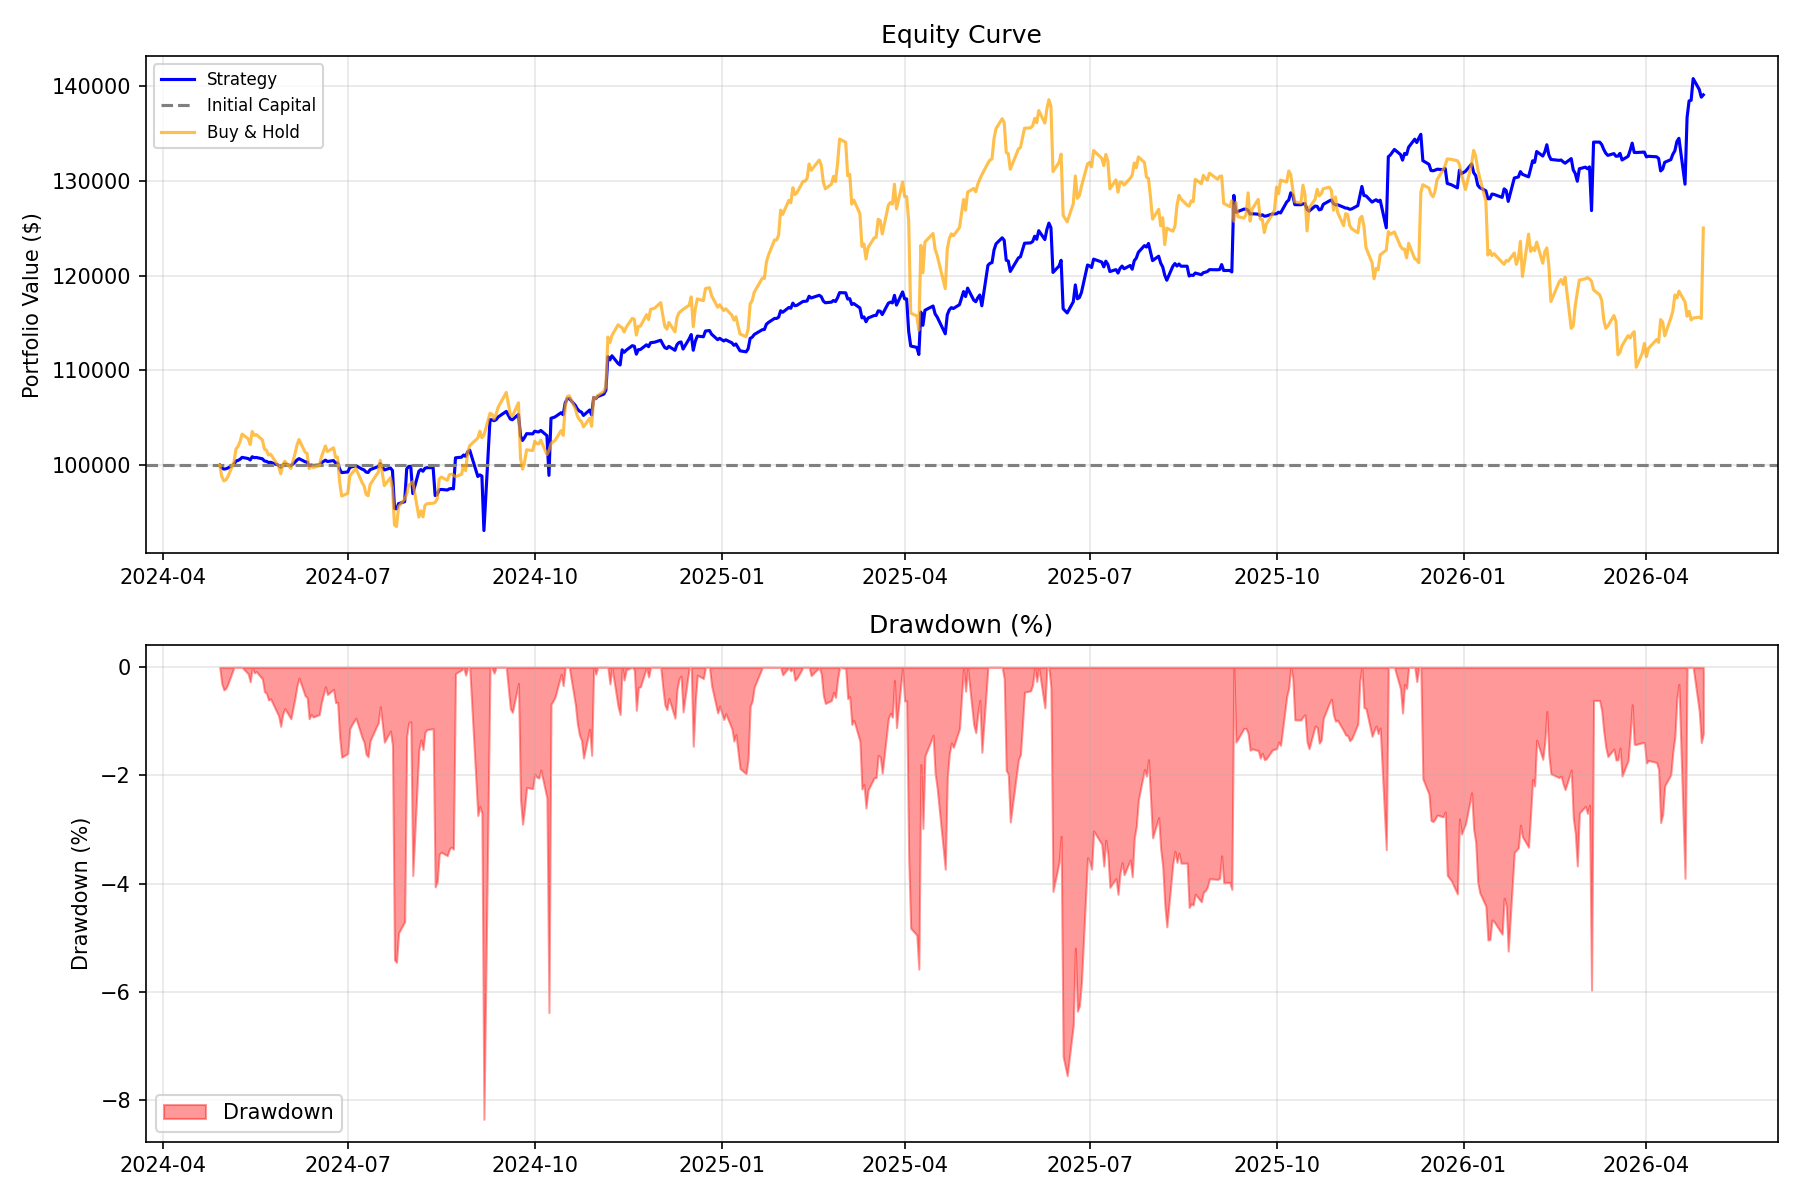
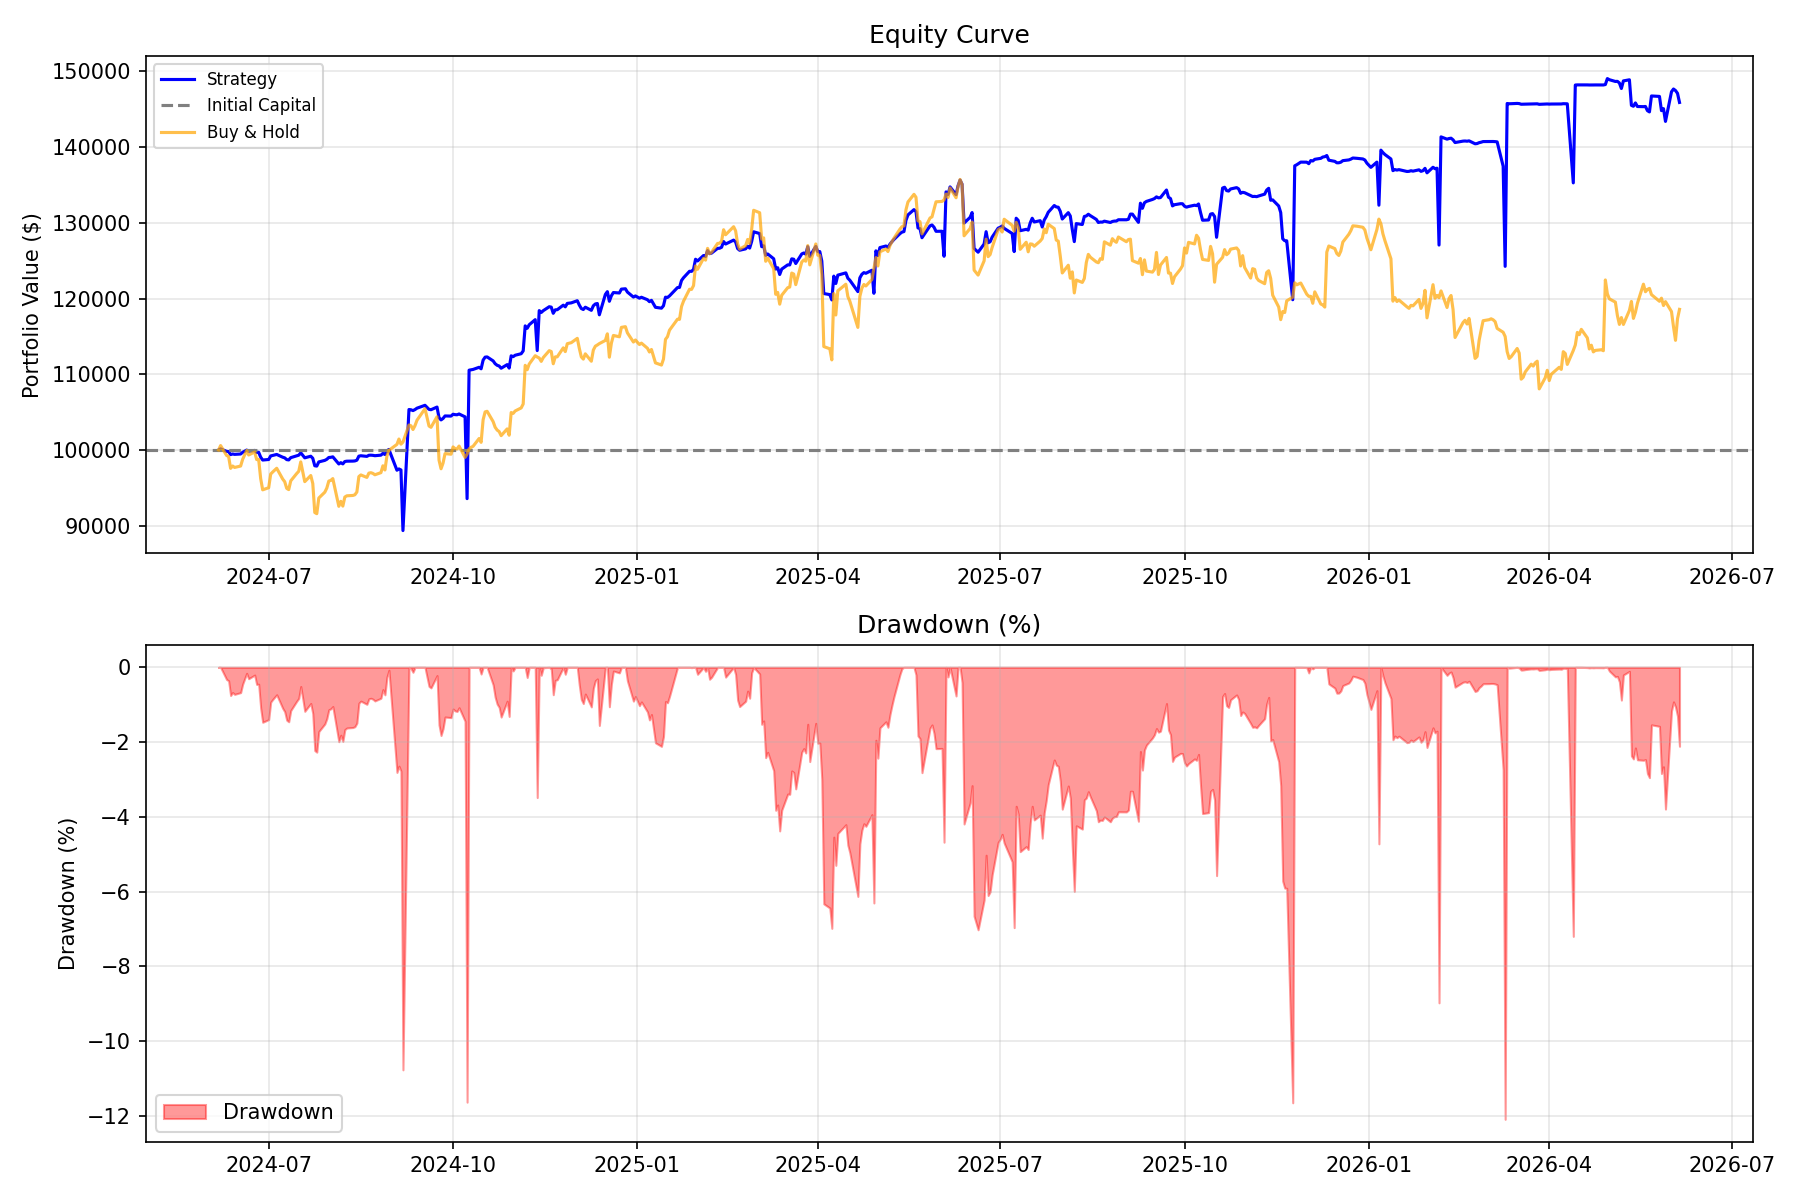
Quantitative Upgrade: OU Stochastic Exits & ML Determinism
- Implemented Ornstein-Uhlenbeck (OU) process for dynamic half-life filtering.

- Upgraded Mean Reversion exits to dynamically target the OU theoretical equilibrium (\mu).

- Enforced strict determinism in LightGBM hyperparameter grid search (random_state=42, n_jobs=1) to eliminate OpenMP thread-racing.

- Unpinned BACKTEST_END_DATE to enable continuous live forward testing.

diff --git a/backtest/engine.py b/backtest/engine.py
@@ -200,6 +200,7 @@ class BacktestEngine:
             signal = int(row.get("signal", 0))
             strength = float(row.get("signal_strength", 0.5))
             atr = float(row.get("atr", 0.0)) if "atr" in row.index else 0.0
+            ou_mu = float(row.get("ou_mu", 0.0)) if "ou_mu" in row.index else 0.0
 
             # Current benchmark price for overlay
             bm_price = 0.0
@@ -1487,9 +1488,18 @@ class BacktestEngine:
                 row = signals_by_symbol[sym].loc[date]
                 price = float(row["Close"])
                 signal = int(row.get("signal", 0))
+                ou_mu = float(row.get("ou_mu", 0.0)) if "ou_mu" in row.index else 0.0
 
                 exit_by_stop = False
                 exit_by_tp = False
+                exit_by_ou = False
+                
+                use_ou_exits = getattr(settings, "USE_OU_DYNAMIC_EXITS", True)
+                if use_ou_exits and ou_mu > 0:
+                    if pos["shares"] > 0 and price >= ou_mu:
+                        exit_by_ou = True
+                    elif pos["shares"] < 0 and price <= ou_mu:
+                        exit_by_ou = True
 
                 if use_atr_stops and pos["stop"] > 0:
                     if pos["shares"] > 0 and price <= pos["stop"]:
@@ -1505,7 +1515,7 @@ class BacktestEngine:
 
                 exit_by_signal = (pos["shares"] > 0 and signal == -1) or (pos["shares"] < 0 and signal == 1)
 
-                if exit_by_stop or exit_by_tp or exit_by_signal:
+                if exit_by_stop or exit_by_tp or exit_by_ou or exit_by_signal:
                     exit_exec = price * (1 - self.SLIPPAGE) if pos["shares"] > 0 else price * (1 + self.SLIPPAGE)
                     pnl = (exit_exec - pos["entry_price"]) * pos["shares"]
                     proceeds = exit_exec * abs(pos["shares"])
@@ -1524,7 +1534,7 @@ class BacktestEngine:
                         "pnl": pnl,
                         "return_pct": (exit_exec / pos["entry_price"] - 1) * (1 if pos["shares"] > 0 else -1),
                         "holding_days": (date - pos["entry_date"]).days if hasattr(date - pos["entry_date"], "days") else 0,
-                        "exit_reason": "stop" if exit_by_stop else ("tp" if exit_by_tp else "signal"),
+                        "exit_reason": "stop" if exit_by_stop else ("ou_target" if exit_by_ou else ("tp" if exit_by_tp else "signal")),
                     }
                     trade_record.update(pos.get("indicators", {}))
                     self._trades.append(trade_record)

diff --git a/features/indicators.py b/features/indicators.py
@@ -152,6 +152,44 @@ class IndicatorEngine:
         shifted = series.shift(period)
         return (series - shifted) / shifted.replace(0, np.nan) * 100
 
+    def compute_ou_parameters(self, series: pd.Series, window: int = 60) -> pd.DataFrame:
+        """Compute Ornstein-Uhlenbeck process parameters via rolling linear regression.
+        
+        dx_t = theta * (mu - x_t) * dt + sigma * dW_t
+        Discretized: x_t - x_{t-1} = a + b * x_{t-1} + e_t
+        Where b = -theta * dt, a = mu * theta * dt
+        
+        Args:
+            series: Price series
+            window: Lookback window for rolling regression
+            
+        Returns:
+            DataFrame with ou_theta, ou_mu, and ou_half_life
+        """
+        diff = series.diff()
+        lag = series.shift(1)
+        
+        # Rolling covariance and variance to find regression slope (beta) and intercept (alpha)
+        cov = diff.rolling(window=window).cov(lag)
+        var = lag.rolling(window=window).var()
+        
+        beta = cov / var.replace(0, np.nan)
+        alpha = diff.rolling(window=window).mean() - beta * lag.rolling(window=window).mean()
+        
+        # Calculate OU parameters (assuming dt = 1 day)
+        theta = -beta
+        mu = alpha / theta.replace(0, np.nan)
+        
+        # Calculate half-life. If theta <= 0, process is not mean-reverting.
+        half_life = np.log(2) / theta
+        half_life = half_life.where(theta > 0, np.nan) # np.nan implies infinite half-life (random walk)
+        
+        return pd.DataFrame({
+            "ou_theta": theta,
+            "ou_mu": mu,
+            "ou_half_life": half_life
+        }, index=series.index)
+
     def compute_rolling_correlation(self, series_a: pd.Series, series_b: pd.Series, window: int = 60) -> pd.Series:
         """Compute rolling correlation between two price series.
 
@@ -229,6 +267,12 @@ class IndicatorEngine:
 
         # Volatility percentile (for regime context)
         result["vol_percentile"] = vol_20.rolling(window=252, min_periods=20).rank(pct=True)
+        
+        # Ornstein-Uhlenbeck Parameters
+        ou_df = self.compute_ou_parameters(close, window=60)
+        result["ou_theta"] = ou_df["ou_theta"]
+        result["ou_mu"] = ou_df["ou_mu"]
+        result["ou_half_life"] = ou_df["ou_half_life"]
 
         # VIX integration (macro filter)
         if vix_data is not None:

diff --git a/strategy/ml_filter.py b/strategy/ml_filter.py
@@ -167,6 +167,8 @@ class MLSignalFilter:
                             scale_pos_weight=scale_pos_weight_value,
                             random_state=42,
                             verbose=-1,
+                            n_jobs=1,
+                            deterministic=True,
                         )
                         for train_idx, val_idx in tscv.split(X_train):
                             X_tr = X_train.iloc[train_idx]
@@ -195,6 +197,8 @@ class MLSignalFilter:
             scale_pos_weight=scale_pos_weight_value,
             random_state=42,
             verbose=-1,
+            n_jobs=1,
+            deterministic=True,
         )
         final_model.fit(X_train, y_train)
         return final_model
@@ -266,6 +270,8 @@ class MLSignalFilter:
                 scale_pos_weight=scale_pos_weight_fold,
                 random_state=42,
                 verbose=-1,
+                n_jobs=1,
+                deterministic=True,
             )
             fold_model.fit(X_tr, y_tr)
             wf_scores.append(fold_model.score(X_val, y_val))

diff --git a/strategy/signals.py b/strategy/signals.py
@@ -252,6 +252,22 @@ class SignalGenerator:
                 signals[weak] = 0
                 signal_strength[weak] = 0.0
 
+        # --- FILTER LAYER 5: Ornstein-Uhlenbeck Half-Life ---
+        use_ou_filter = getattr(settings, "USE_OU_HALF_LIFE_FILTER", False)
+        if use_ou_filter and "ou_half_life" in result.columns:
+            max_half_life = getattr(settings, "MAX_OU_HALF_LIFE", 30.0)
+            
+            # Block trades where the half-life is too long (random walk) or infinite (NaN)
+            ou_blocked = (signals != 0) & (
+                result["ou_half_life"].isna() | (result["ou_half_life"] > max_half_life)
+            )
+            signals[ou_blocked] = 0
+            signal_strength[ou_blocked] = 0.0
+            
+            filtered_ou = ou_blocked.sum()
+            if filtered_ou > 0:
+                logger.info(f"OU Half-Life filter suppressed {filtered_ou} signals")
+
         result["signal"] = signals
         result["signal_strength"] = signal_strength
 

diff --git a/config/settings.py b/config/settings.py
@@ -60,6 +60,11 @@ MIN_SIGNAL_STRENGTH = 0.0
 USE_DIST_SMA200_FILTER = True
 MAX_DIST_SMA200 = 0.10
 
+# Ornstein-Uhlenbeck (OU) Half-Life Filter
+USE_OU_HALF_LIFE_FILTER = True
+MAX_OU_HALF_LIFE = 30.0  # Max days expected to revert
+USE_OU_DYNAMIC_EXITS = True  # Dynamically take profit at OU theoretical equilibrium (mu)
+
 # VIX macro filter
 USE_VIX_FILTER = False
 VIX_THRESHOLD_HIGH = 30
@@ -70,7 +75,7 @@ MIN_OPTIONAL_CONFIRMATIONS = 1
 # Backtest reproducibility: pin the end date so the data window doesn't shift
 # when re-running on a different calendar day.  Empty string = use today (default).
 # Set via CLI: --end-date 2026-03-19
-BACKTEST_END_DATE = "2026-04-29"
+BACKTEST_END_DATE = ""
 
 # Per-stock adaptive profiles: auto-calibrate parameters from historical data
 USE_STOCK_PROFILES = True
